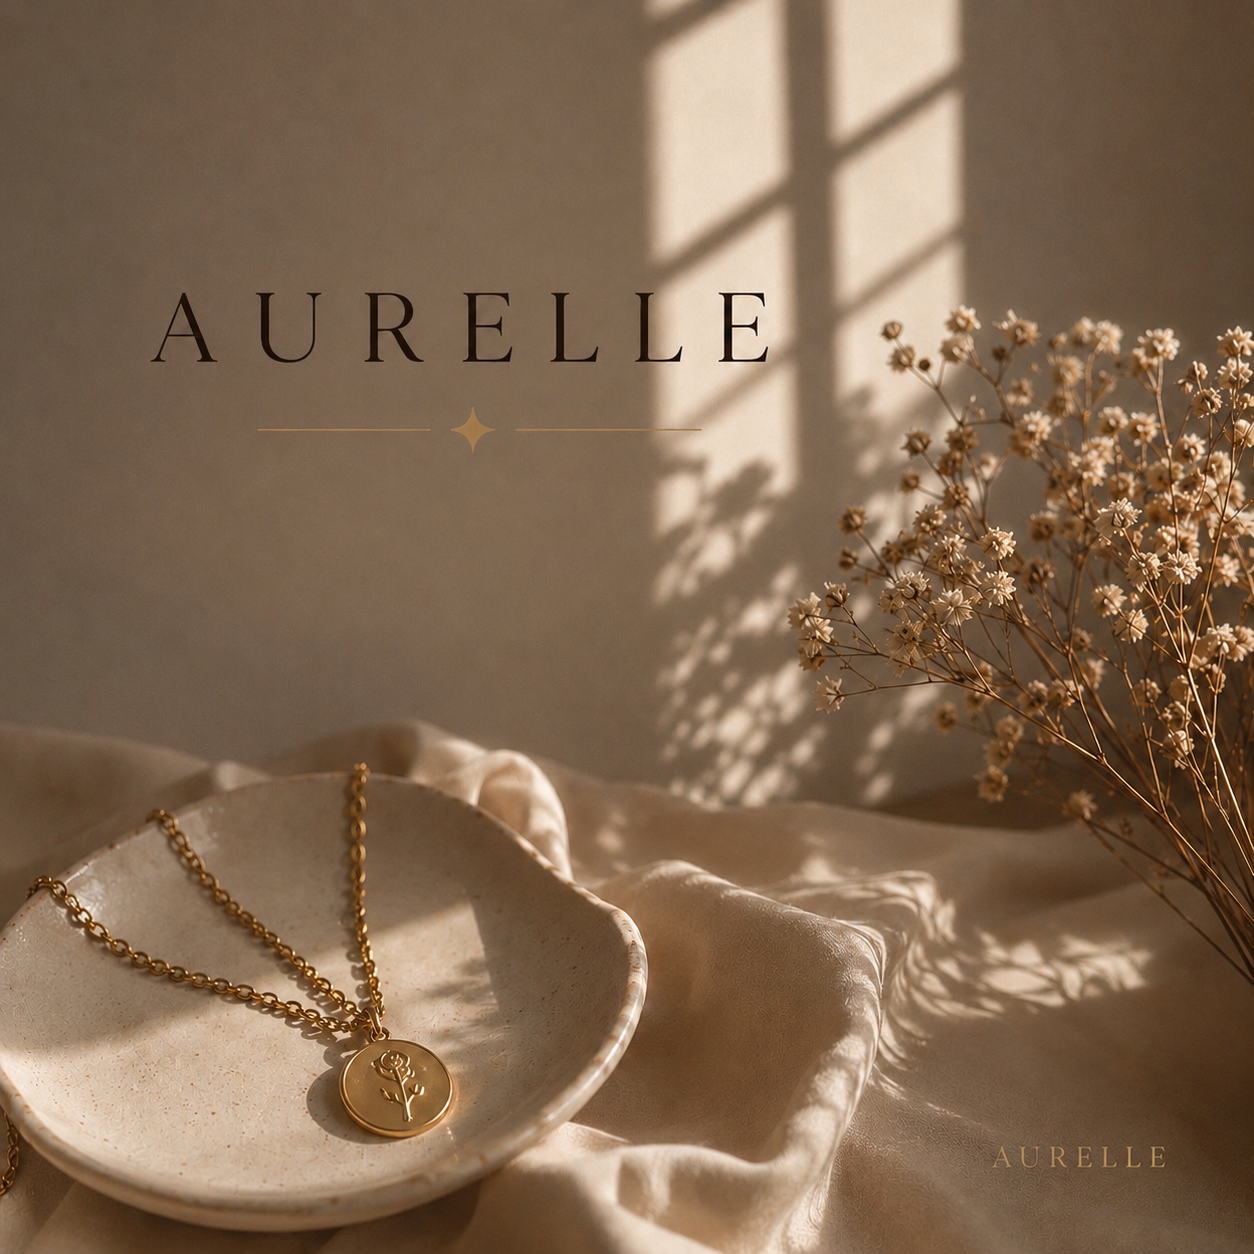
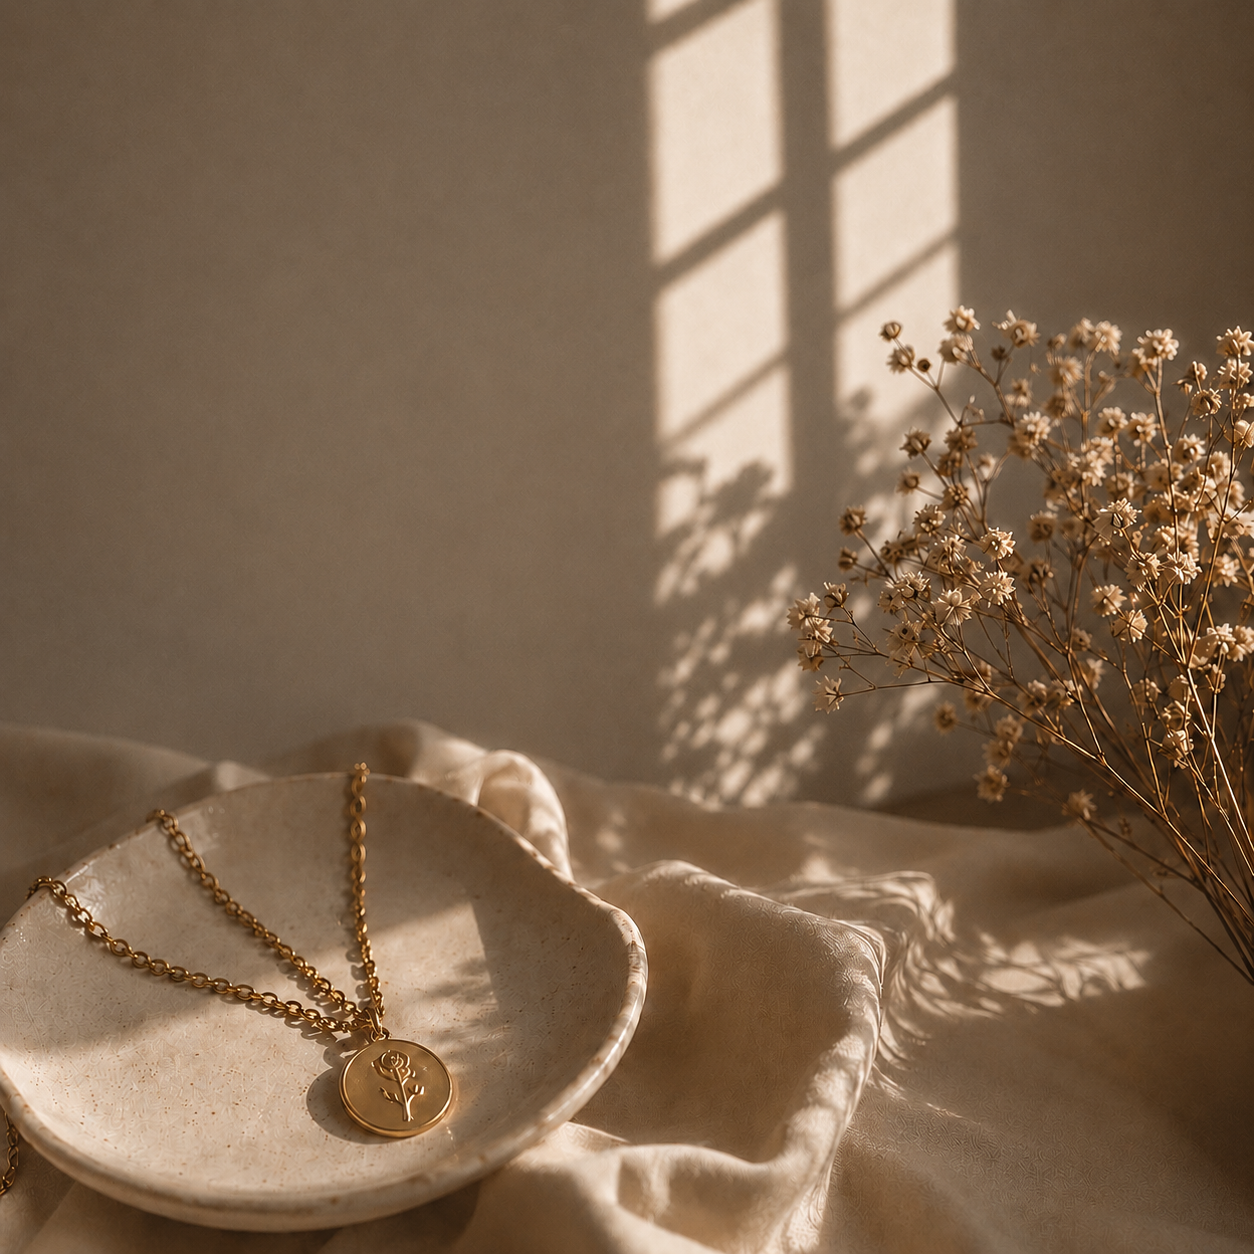
design: hero temiz fotoğraf + CSS AURELLE overlay + dekoratif desen
- Yazısız temiz fotoğraf hero-bg.png olarak güncellendi
- AURELLE yazısı Cormorant Garamond ile CSS overlay (sağ üst)
- Altın nokta dizisi + yıldız dekoratif desen
- Sol gradient içerik netliğini korur

diff --git a/src/app/pages/HomePage.tsx b/src/app/pages/HomePage.tsx
@@ -32,12 +32,39 @@ export default function HomePage({ onNavigate, onCategory }: HomePageProps) {
           backgroundImage: 'url(/hero-bg.png)',
           backgroundSize: 'cover',
           backgroundPosition: 'right center',
-          backgroundColor: '#EFE6D8',
+          backgroundColor: '#E8DACE',
         }}
       >
-        {/* Sol: opaklıktan şeffafa gradient — resmin kendi yazısını örter, içerik netliğini korur */}
-        <div className="absolute inset-0 bg-gradient-to-r from-[#EFE6D8] via-[#EFE6D8]/85 to-[#EFE6D8]/10" />
+        {/* Sol gradient — içerik alanını temiz tutar */}
+        <div className="absolute inset-0 bg-gradient-to-r from-[#E8DACE] via-[#E8DACE]/80 to-transparent" />
 
+        {/* AURELLE yazısı + dekoratif desen — sağ üst, fotoğrafın boş duvarında */}
+        <div className="absolute top-10 right-0 w-1/2 flex flex-col items-center pointer-events-none select-none hidden md:flex">
+          <p
+            className="font-serif text-[#2C1E10] tracking-[0.55em] text-4xl lg:text-5xl font-light"
+            style={{ letterSpacing: '0.55em' }}
+          >
+            AURELLE
+          </p>
+          {/* Dekoratif desen: ince çizgiler + elmas */}
+          <div className="flex items-center gap-2 mt-3 opacity-70">
+            <div className="flex gap-[3px]">
+              {Array.from({ length: 8 }).map((_, i) => (
+                <span key={i} className="block w-[2px] h-[2px] rounded-full bg-[#C4A05C]" />
+              ))}
+            </div>
+            <svg width="10" height="10" viewBox="0 0 10 10" fill="none">
+              <path d="M5 0L6.2 3.8L10 5L6.2 6.2L5 10L3.8 6.2L0 5L3.8 3.8Z" fill="#C4A05C" />
+            </svg>
+            <div className="flex gap-[3px]">
+              {Array.from({ length: 8 }).map((_, i) => (
+                <span key={i} className="block w-[2px] h-[2px] rounded-full bg-[#C4A05C]" />
+              ))}
+            </div>
+          </div>
+        </div>
+
+        {/* Sol içerik */}
         <div className="relative z-10 max-w-7xl mx-auto px-4 sm:px-6 py-24">
           <div className="max-w-xl">
             <p className="text-xs tracking-[0.4em] text-primary uppercase mb-4 font-light">